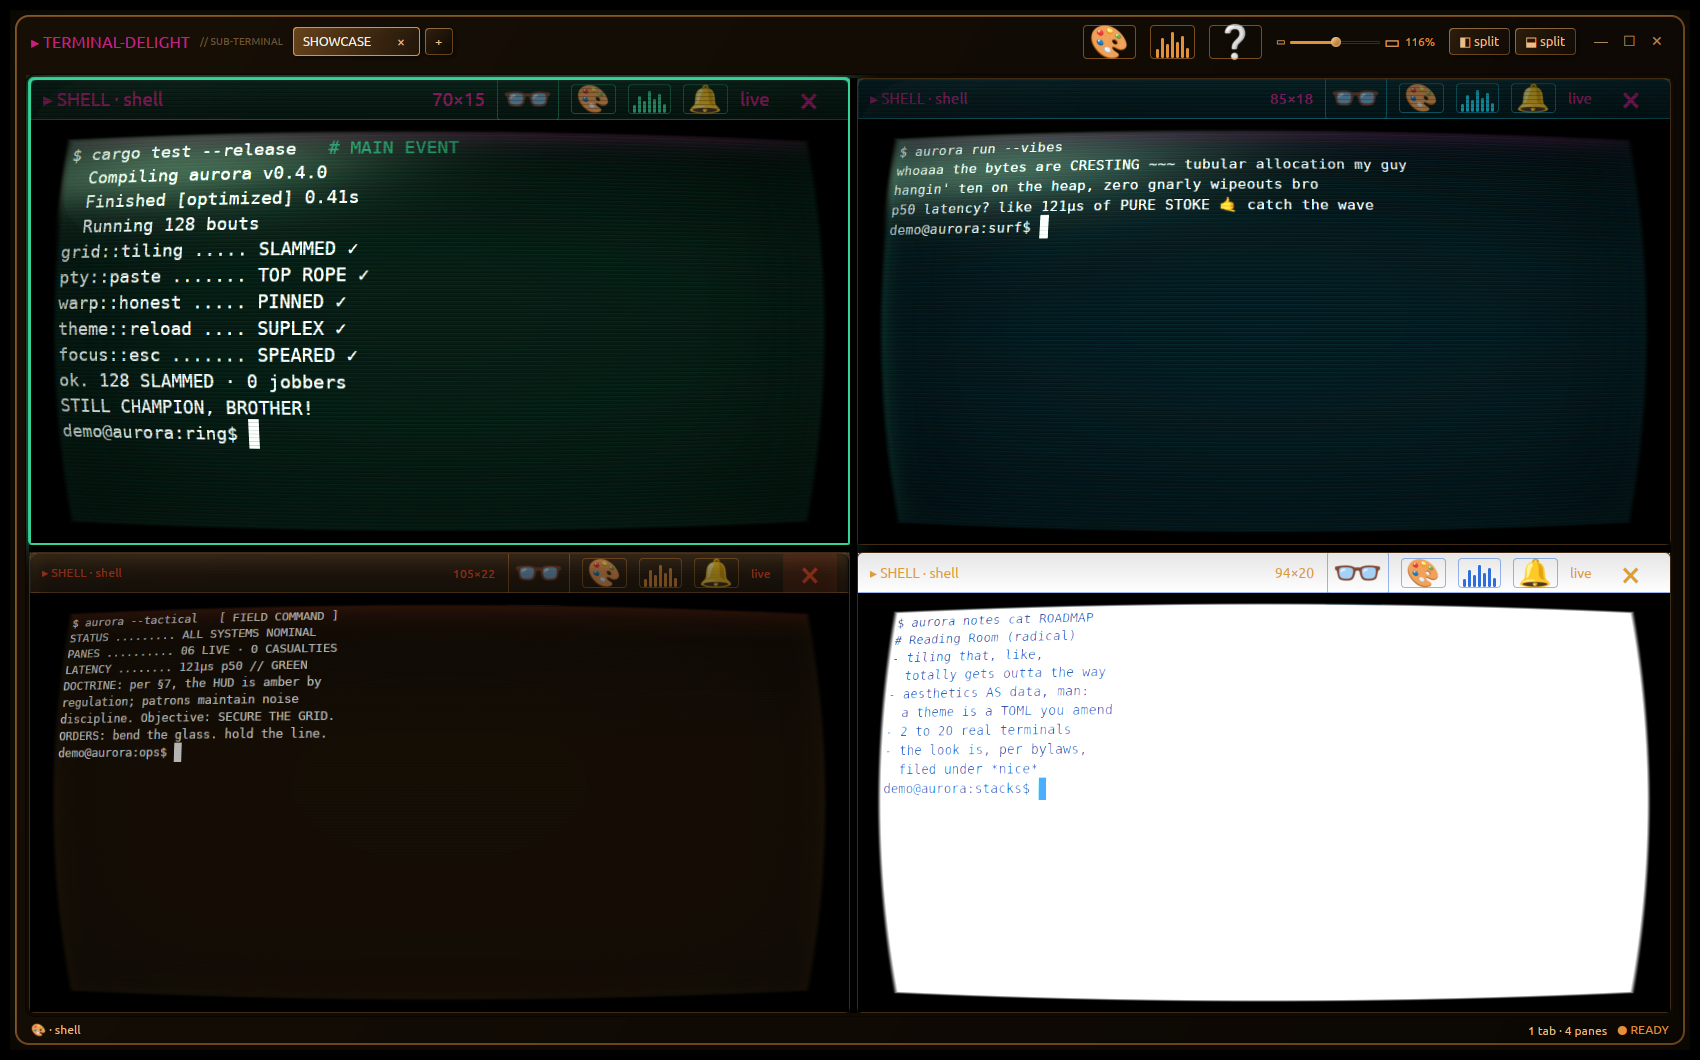
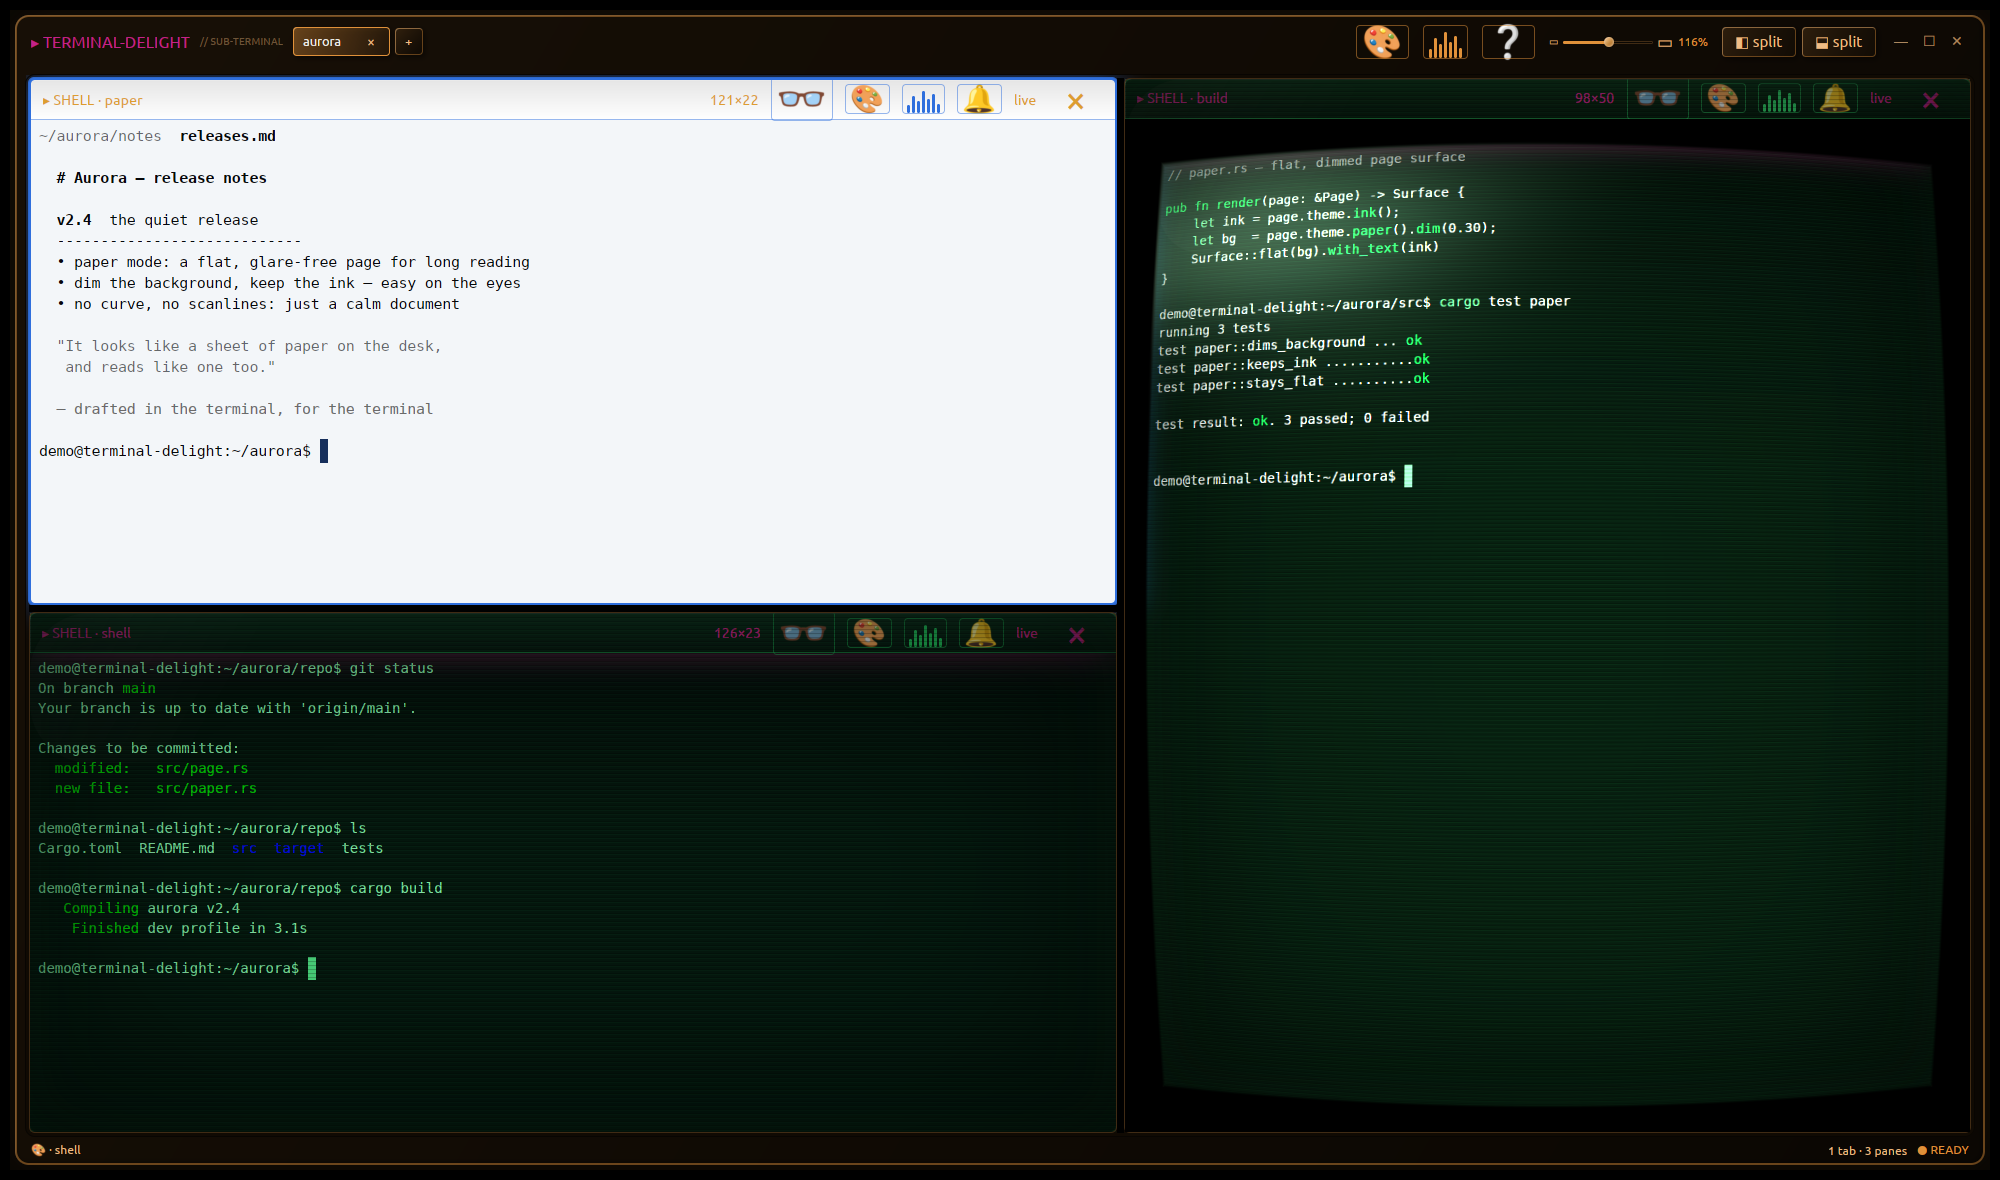
demo(site): screenshot 2 → flat paper + plain dark terminal + one curved CRT
Reframe gallery shot #2 around 'normal terminal users welcome': a flat
light 'paper' pane (light theme, background dimmed, dark ink, no curve),
an ordinary flat dark terminal running git below it, and a single tall
green-phosphor pane gently curved like a CRT on the right — curve is a
choice, not a requirement. Update caption + alt text to match.

diff --git a/info.html b/info.html
@@ -232,7 +232,7 @@
       <h2>Real captures — staged with demo content</h2>
       <div class="gallery">
         <figure><img loading="lazy" src="assets/crt-wall.png" alt="a wall of barrel-warped CRT terminal panes, each a different colour"><figcaption>six curved CRTs — each its own colour &amp; size, colour-banded tab groups</figcaption></figure>
-        <figure><img loading="lazy" src="assets/showcase-themes.png" alt="four panes, four themes, four text sizes"><figcaption>four themes · four sizes · one window</figcaption></figure>
+        <figure><img loading="lazy" src="assets/showcase-themes.png" alt="three terminal panes in one window: a flat light 'paper' page with the background dimmed and dark ink, a normal flat dark terminal running git below it, and a tall green-phosphor pane gently curved like a CRT on the right"><figcaption>flat paper · plain dark terminal · one curved CRT — your call</figcaption></figure>
         <figure><img loading="lazy" src="assets/terminal-clean.png" alt="a single full terminal pane"><figcaption>one clean pane, hacker theme</figcaption></figure>
         <figure><img loading="lazy" src="assets/theme-hacker.png" alt="hacker theme at large text size"><figcaption>hacker — exaggerated text size</figcaption></figure>
         <figure><img loading="lazy" src="assets/theme-tactical.png" alt="tactical-overdrive theme"><figcaption>tactical-overdrive — amber HUD</figcaption></figure>